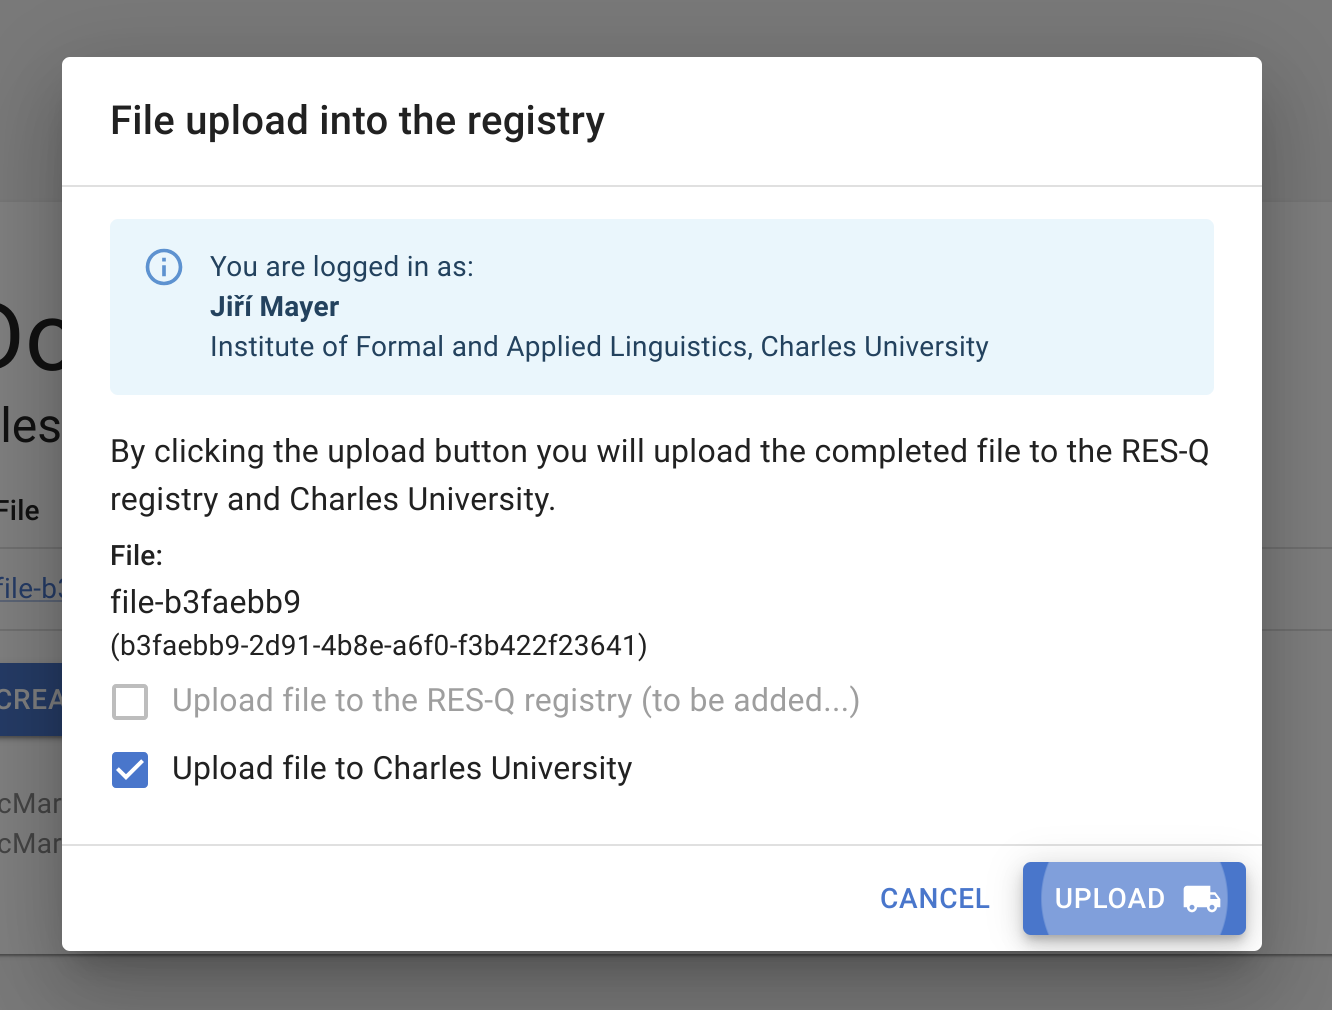
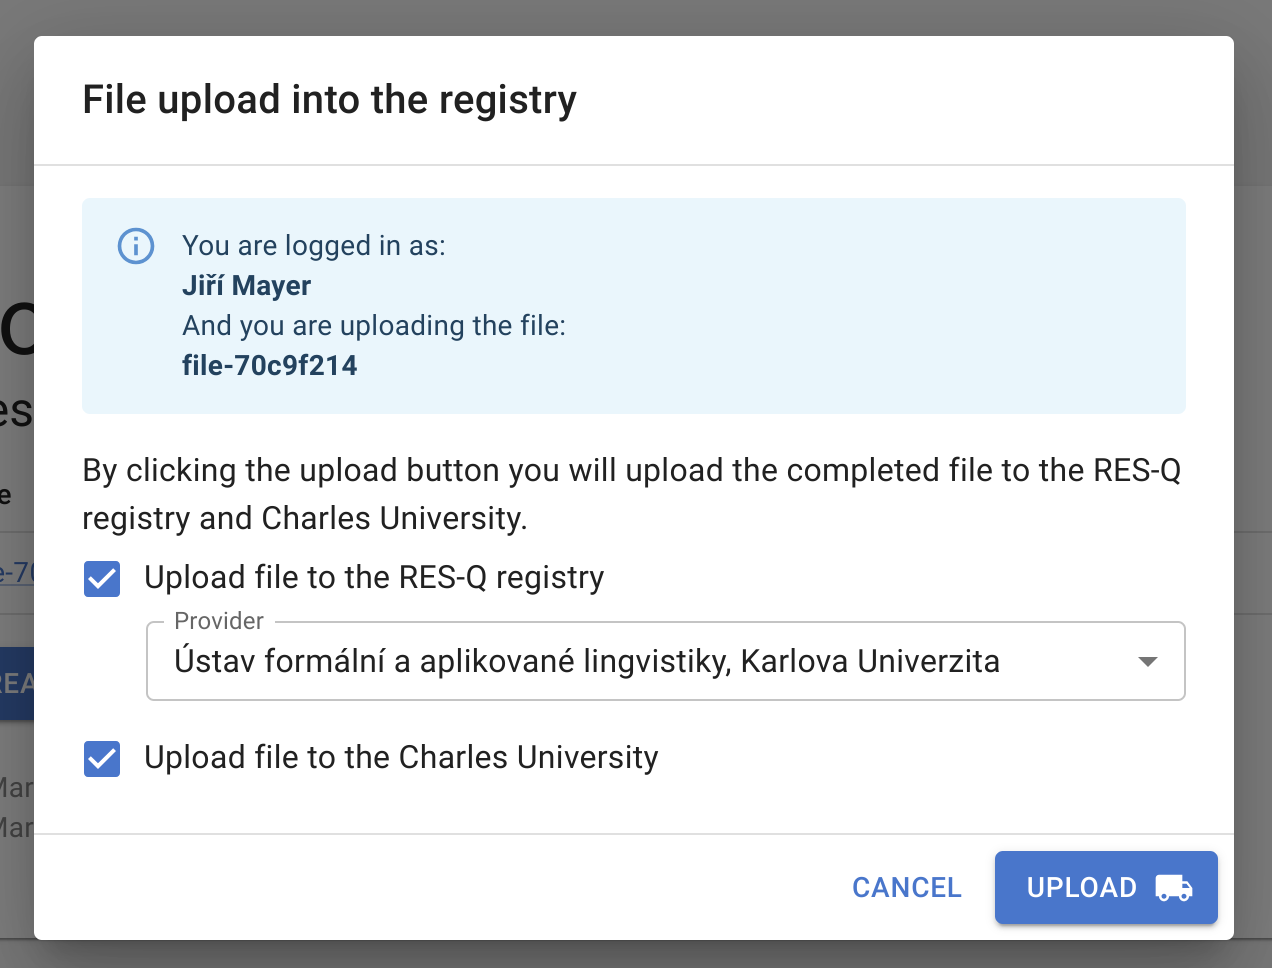
Updated file uploading tutorial

Changed region(s): [[0.0, 0.031, 0.9811, 0.9917], [0.092, 0.2169, 0.7358, 0.4029]]

diff --git a/docs/uploading-files-tutorial.md b/docs/uploading-files-tutorial.md
@@ -9,13 +9,13 @@ https://ufallab.ms.mff.cuni.cz/~mayer/development-resq-doc-marker/
 > **Note:** The production deployment runs at:
 > https://quest.ms.mff.cuni.cz/resq-doc-marker/
 
-We will test the process on a brand new file. In production though, you would start with a file that is ready, fully annotated, without any validation errors.
+We will test the process on a brand new file, though, in production, you would start with a file that is ready, fully annotated, without any validation errors.
 
 > **Note:** The file can be uploaded regardless of validation errors or missing values.
 
 Create a new file by clicking the `Create new file` button. Use the default form and click `Create` in the dialog. Switch to the `Annotate` mode in the top right mode selector. In the form, fill out an age of 42 in the `Age at stroke onset`, so that we have some data to see in the uploaded file.
 
-Now, in the top menu, click `Tools > Upload file to RES-Q`. You will be redirected to the login page of the RES-Q registry. Specifically, the *development* deployment at the domain `auth.dev.qualityregistry.org` (see the `dev` in the domain). Log in with your development RES-Q account.
+Now, in the top menu, click `Tools > Upload file to RES-Q`. You will be redirected to the login page of the RES-Q registry. Specifically, the *development* deployment at the domain `auth.dev.qualityregistry.org` (see the `dev` in the domain). Log in with your **development RES-Q account**.
 
 > **Note:** The production deployment of DocMarker will redirect you to the production deployment of RES-Q registry.
 
@@ -29,14 +29,25 @@ You can click the `Upload` button and the necessary actions will be performed.
 
 When the upload finishes, you will be shown a green success box with assigned *Case ID* from the RES-Q registry. This case ID will be stored in the DocMarker file so that any future uploads will modify the data for this RES-Q case, instead of creating a new one.
 
-You can click the `Close` button, which takes you back to the welcome screen of DocMarker.
+![Upload dialog success screenshot](upload-dialog-success-screenshot.png)
+
+Clicking the link at the bottom of the green box will open the created RES-Q case in a new tab. There you can verify the uploaded data and submit the case.
+
+You can click the `Close` button on the dialog, which takes you back to the welcome screen of DocMarker.
 
 
-## Interacting with the created RES-Q case
+## Uploading files to RES-Q
 
-Uploading to RES-Q is not implemented. The goal is to only create the case and upload data, but let the user themselves to verify the data in RES-Q and submit manually.
+When you upload a file that has not been uploaded before, a new RES-Q case is created and filled out with the data.
 
-TODO
+The case is created in the *draft* mode and you then must manually submit the case from the RES-Q web application (link to which is displayed by DocMarker after successful upload).
+
+If you make changes to the DocMarker file and upload again, the corresponding RES-Q case is updated. If the case is already submitted, the upload will fail. To update an already submitted case, you need to set it back to draft mode from inside the RES-Q web application.
+
+Uploading an already uploaded file provides a warning and the link to the case before the upload is finalized:
+
+![Reupload dialog warning screenshot](reupload-dialog-warning-screenshot.png)
+
 
 
 ## Locating the uploaded file at ÚFAL
